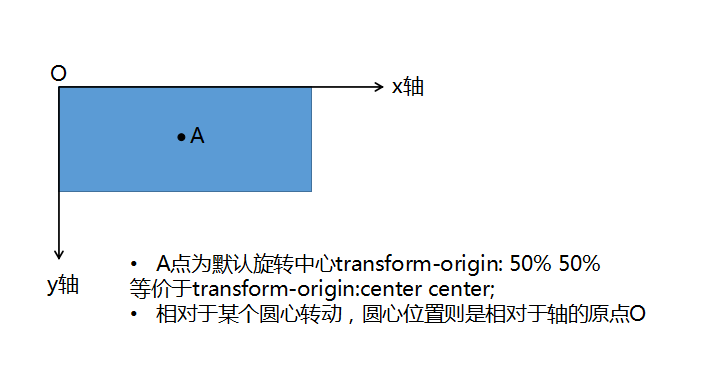
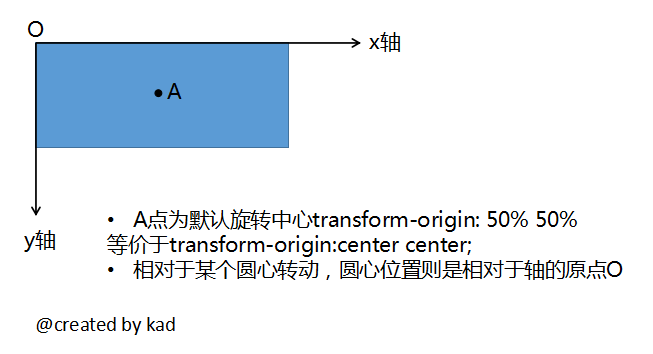
task26

diff --git a/task26/README.md b/task26/README.md
@@ -37,7 +37,7 @@
 
 ##知识点
 
-* transform-origin属性用来设置转换元素的旋转中心，相对于某个圆心运动的设置![这是自己的理解](css/transform-origin.png)
+* transform-origin属性用来设置转换元素的旋转中心，相对于某个圆心运动的设置，自己的理解：![created by kad](css/transform-origin.png)
 * margin:0 auto;元素居中失效原因：必须给居中元素设置宽度；元素不能脱离文档流。
 * 通过setInterval不停的判断飞船的状态来进行相应的操作。
 * nextSibling属性返回指定节点之后紧跟的节点包括text节点，nextElementSibling返回之后的dom节点。
